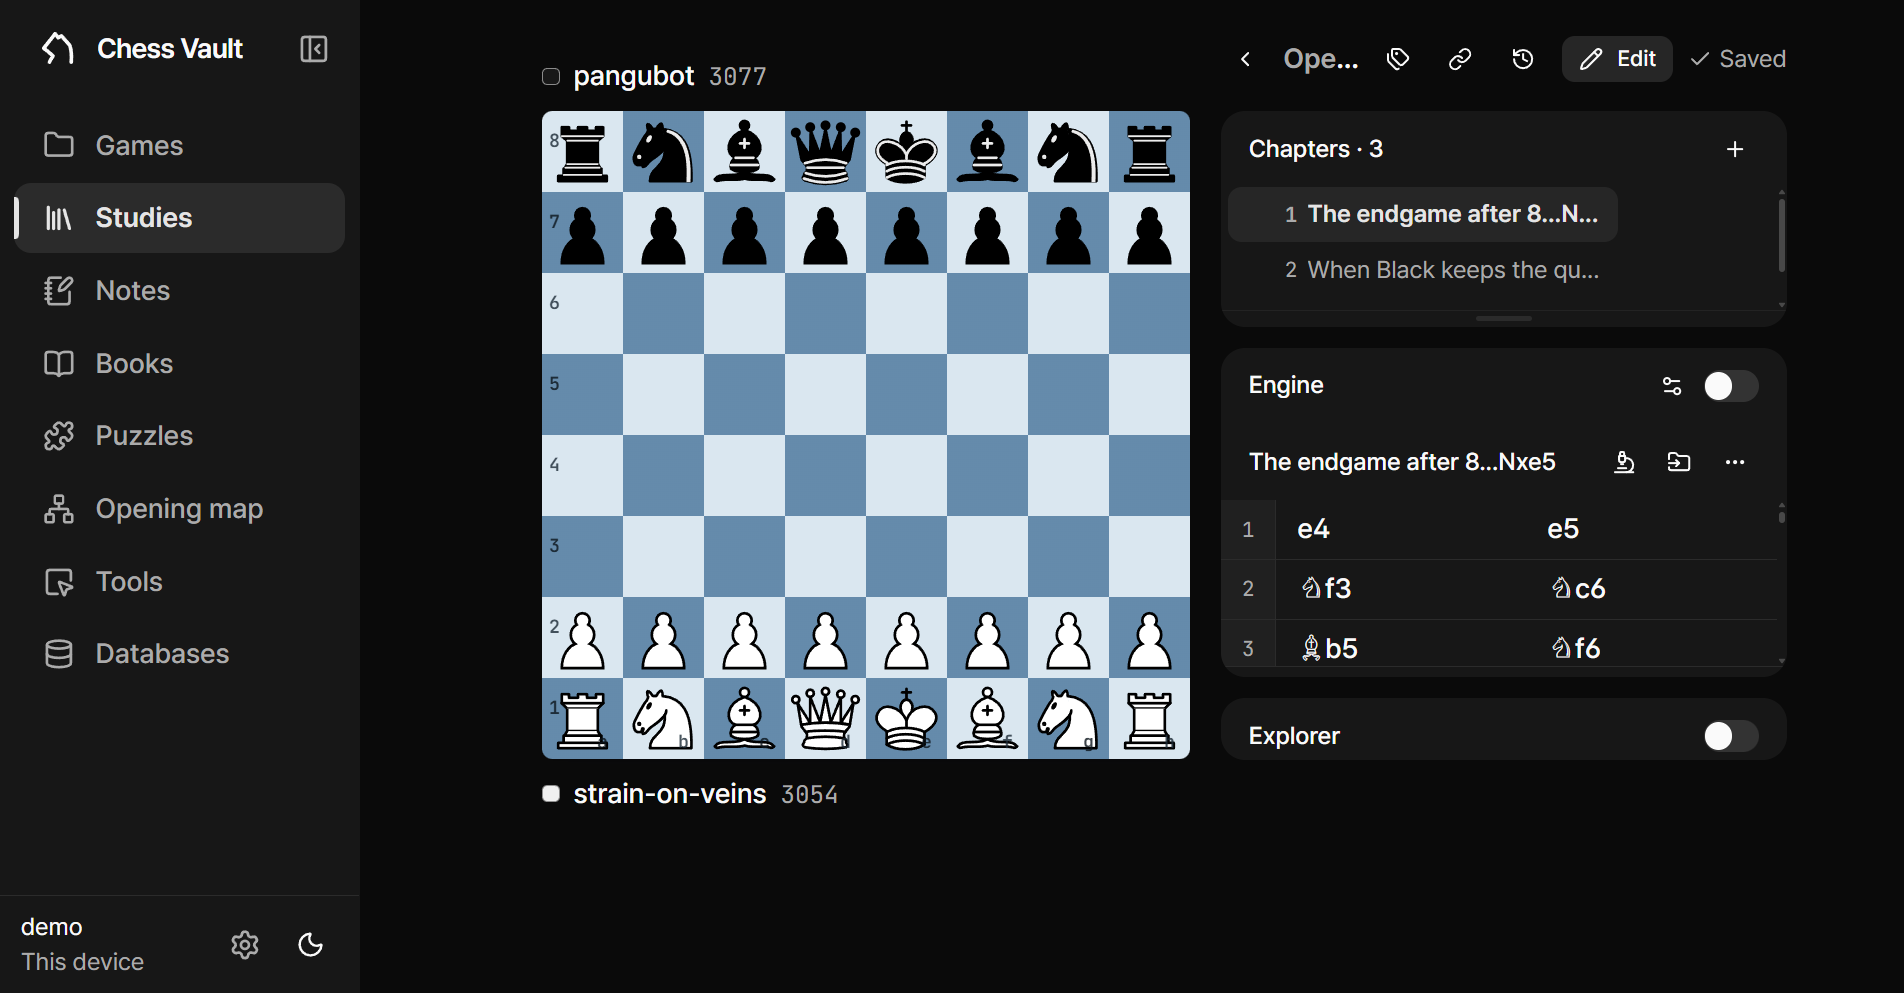
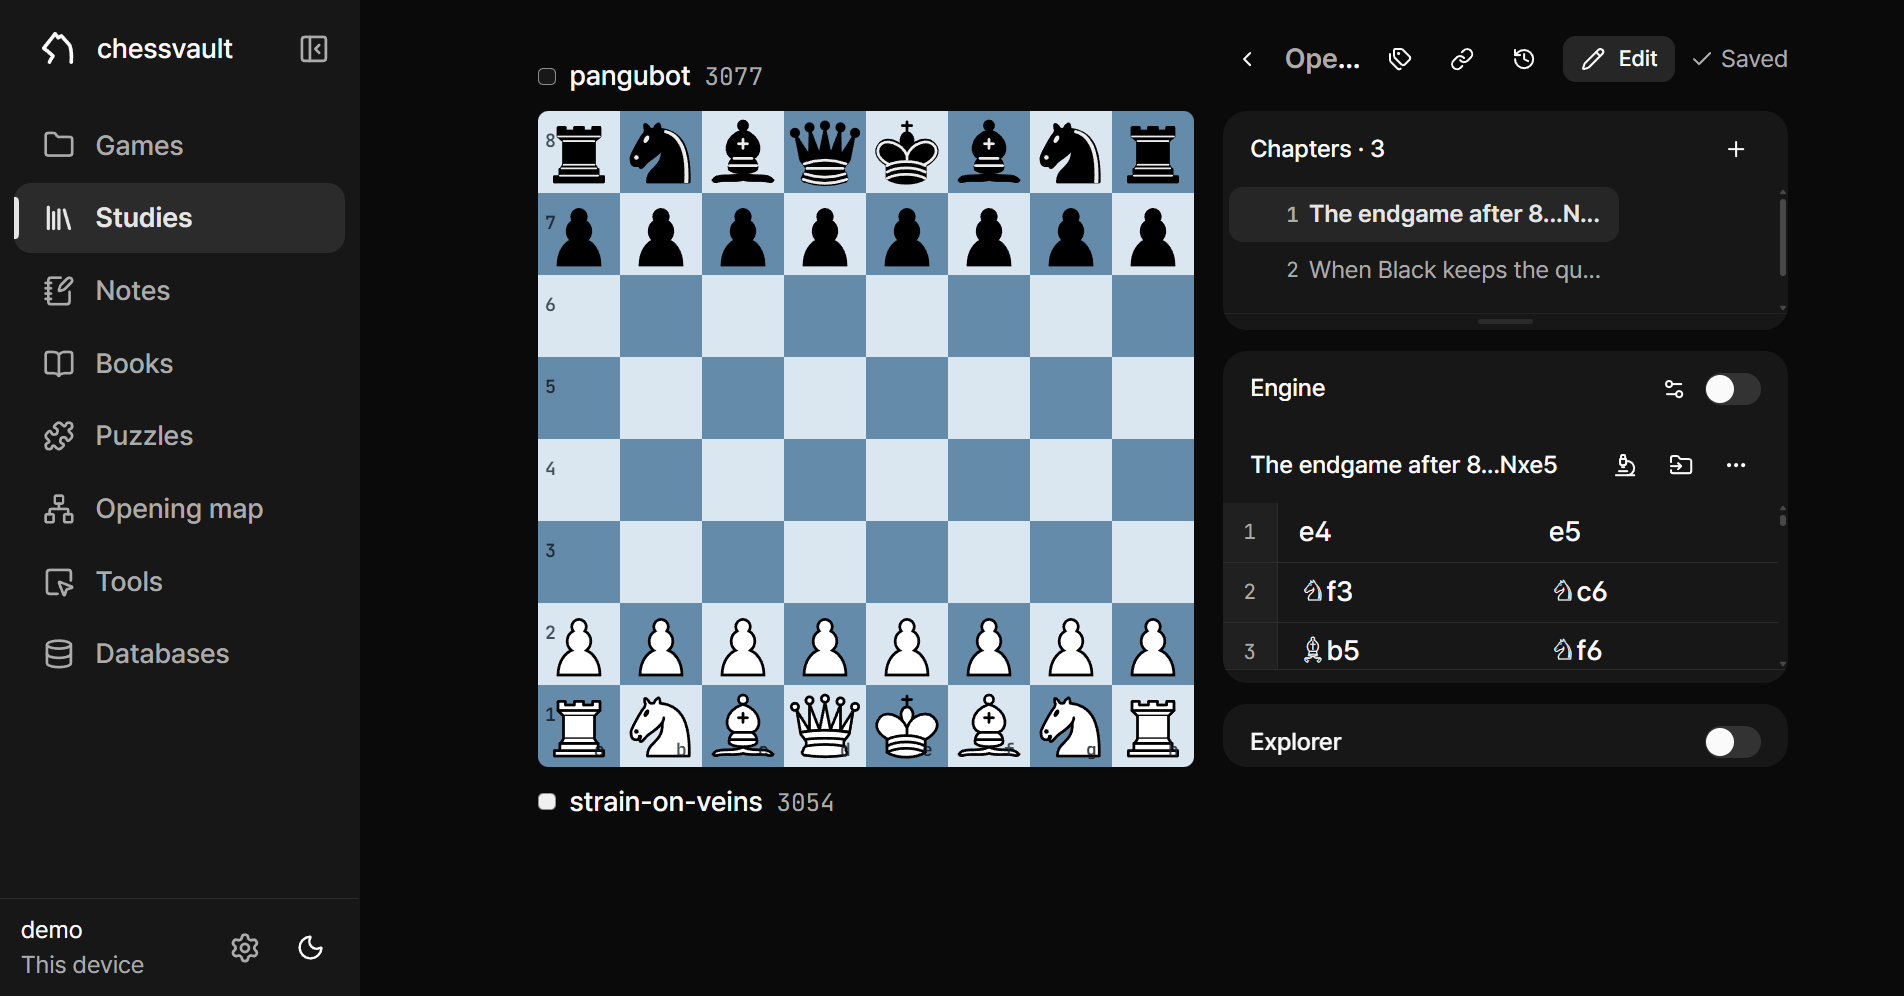
Recapture the manual's screenshots with the lowercase wordmark
The sidebar in every desktop shot still read "Chess Vault" in semibold;
it now reads "chessvault" at medium weight, as the app has since the
last release. Measured against the committed set on the rows both
share, the list pages (books, dashboard, games) moved 0.3 to 1.1% and
the box is the sidebar, x0-358.

The capture also settled the 3px the set had been carrying: the script
asks Electron for a 996px-tall window and the committed shots were
993, a clamp that came and went between captures (the 2026-09-07 run
gave 996, the 2026-09-10 run 993). Every desktop shot is now the 996
the script asks for, and the manual's and the landing page's 14
height attributes say so, so the browser reserves the right box before
the picture lands. The extra three rows are why the board pages
(board, editor, explorer, repertoire, study) show 8 to 11% changed:
the board takes the taller column and every pixel of it moves. Two
runs of the same build agree byte for byte on 22 of 29 pictures; the
opening map (7.7 to 7.9%) and the trainer (4.4 to 7.5%) settle rather
than render and differ from themselves as before, and the explorer
differs by a 20px box (0.01%). The four phone shots and the social card
are byte-identical to the committed ones.

diff --git a/web/landing/docs.html b/web/landing/docs.html
@@ -447,7 +447,7 @@
                   srcset="shots/board-960.png 960w, shots/board-1280.png 1280w, shots/board.png 1904w"
                   sizes="(min-width: 48rem) 696px, calc(100vw - 3.5rem)"
                   width="1904"
-                  height="993"
+                  height="996"
                   loading="lazy"
                   decoding="async"
                   alt="The analysis board with the engine running"
@@ -911,7 +911,7 @@
                   srcset="shots/board-960.png 960w, shots/board-1280.png 1280w, shots/board.png 1904w"
                   sizes="(min-width: 48rem) 696px, calc(100vw - 3.5rem)"
                   width="1904"
-                  height="993"
+                  height="996"
                   loading="lazy"
                   decoding="async"
                   alt="The analysis board: the move tree and the engine beside the board"
@@ -1165,7 +1165,7 @@
                   srcset="shots/explorer-960.png 960w, shots/explorer-1280.png 1280w, shots/explorer.png 1904w"
                   sizes="(min-width: 48rem) 696px, calc(100vw - 3.5rem)"
                   width="1904"
-                  height="993"
+                  height="996"
                   loading="lazy"
                   decoding="async"
                   alt="The explorer after 1. e4: the opening name and the reply table with result bars"
@@ -1296,7 +1296,7 @@
                   srcset="shots/editor-960.png 960w, shots/editor-1280.png 1280w, shots/editor.png 1904w"
                   sizes="(min-width: 48rem) 696px, calc(100vw - 3.5rem)"
                   width="1904"
-                  height="993"
+                  height="996"
                   loading="lazy"
                   decoding="async"
                   alt="The editor: the piece palette, the mode toolbar, and the position details panel"
@@ -1373,7 +1373,7 @@
                   srcset="shots/workspace-960.png 960w, shots/workspace-1280.png 1280w, shots/workspace.png 1600w"
                   sizes="(min-width: 48rem) 696px, calc(100vw - 3.5rem)"
                   width="1600"
-                  height="993"
+                  height="996"
                   loading="lazy"
                   decoding="async"
                   alt="The workspace: the board, moves and explorer over the games band"
@@ -1452,7 +1452,7 @@
                   srcset="shots/study-960.png 960w, shots/study-1280.png 1280w, shots/study.png 1904w"
                   sizes="(min-width: 48rem) 696px, calc(100vw - 3.5rem)"
                   width="1904"
-                  height="993"
+                  height="996"
                   loading="lazy"
                   decoding="async"
                   alt="A study open on its chapters, with the chapter introduction beside the board"
@@ -1625,7 +1625,7 @@
                   srcset="shots/games-960.png 960w, shots/games-1280.png 1280w, shots/games.png 1904w"
                   sizes="(min-width: 48rem) 696px, calc(100vw - 3.5rem)"
                   width="1904"
-                  height="993"
+                  height="996"
                   loading="lazy"
                   decoding="async"
                   alt="The Games page: the game table beside the details panel"
@@ -2065,7 +2065,7 @@
                   srcset="shots/puzzle-trainer-960.png 960w, shots/puzzle-trainer-1280.png 1280w, shots/puzzle-trainer.png 1904w"
                   sizes="(min-width: 48rem) 696px, calc(100vw - 3.5rem)"
                   width="1904"
-                  height="993"
+                  height="996"
                   loading="lazy"
                   decoding="async"
                   alt="The puzzle trainer mid-puzzle: the board and the answer panel"
@@ -2149,7 +2149,7 @@
                   srcset="shots/dashboard-960.png 960w, shots/dashboard-1280.png 1280w, shots/dashboard.png 1904w"
                   sizes="(min-width: 48rem) 696px, calc(100vw - 3.5rem)"
                   width="1904"
-                  height="993"
+                  height="996"
                   loading="lazy"
                   decoding="async"
                   alt="The puzzle dashboard with book progress"
@@ -2236,7 +2236,7 @@
                   srcset="shots/repertoire-960.png 960w, shots/repertoire-1280.png 1280w, shots/repertoire.png 1904w"
                   sizes="(min-width: 48rem) 696px, calc(100vw - 3.5rem)"
                   width="1904"
-                  height="993"
+                  height="996"
                   loading="lazy"
                   decoding="async"
                   alt="The repertoire trainer's New game form"
@@ -2311,7 +2311,7 @@
                   srcset="shots/opening-map-960.png 960w, shots/opening-map.png 1200w"
                   sizes="(min-width: 48rem) 696px, calc(100vw - 3.5rem)"
                   width="1200"
-                  height="993"
+                  height="996"
                   loading="lazy"
                   decoding="async"
                   alt="A white repertoire as a constellation, dots sized by how often the field plays them"

diff --git a/web/landing/index.html b/web/landing/index.html
@@ -789,7 +789,7 @@
                     srcset="shots/opening-map-960.png 960w, shots/opening-map.png 1200w"
                     sizes="(min-width: 56rem) 446px, (min-width: 40rem) 520px, calc(100vw - 4.5rem)"
                     width="1200"
-                    height="993"
+                    height="996"
                     loading="lazy"
                     decoding="async"
                     alt="The opening map: a white repertoire as a constellation of moves, each dot named by the opening catalogue and sized by how often the field plays it"
@@ -852,7 +852,7 @@
                     srcset="shots/games-960.png 960w, shots/games-1280.png 1280w, shots/games.png 1904w"
                     sizes="(min-width: 56rem) 446px, (min-width: 40rem) 520px, calc(100vw - 4.5rem)"
                     width="1904"
-                    height="993"
+                    height="996"
                     loading="lazy"
                     decoding="async"
                     alt="The Games page's Databases tab: a query box, filters, and a table of reference games beside the details panel"
@@ -947,7 +947,7 @@
                     srcset="shots/board-960.png 960w, shots/board-1280.png 1280w, shots/board.png 1904w"
                     sizes="(min-width: 56rem) 446px, (min-width: 40rem) 520px, calc(100vw - 4.5rem)"
                     width="1904"
-                    height="993"
+                    height="996"
                     loading="lazy"
                     decoding="async"
                     alt="The analysis board with the engine and opening explorer"
